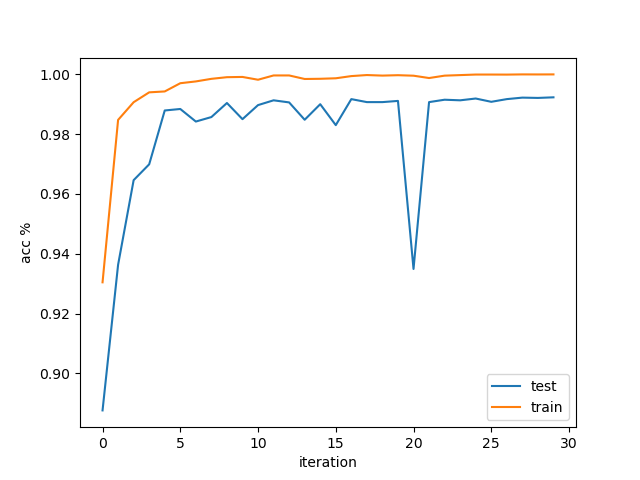
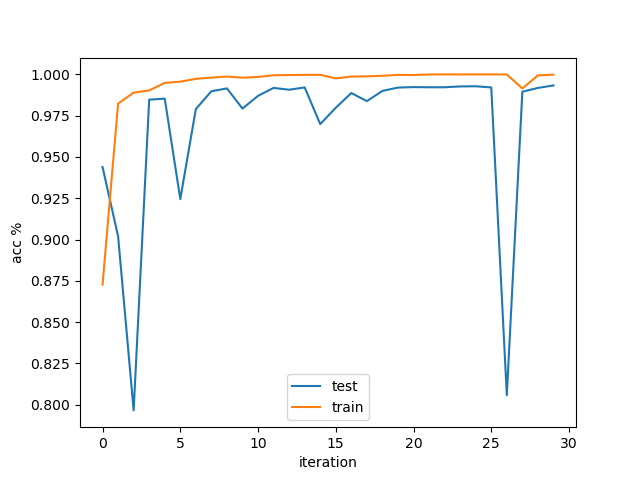
'resnet34'

diff --git a/netTrain.py b/netTrain.py
@@ -20,8 +20,9 @@ EPOCH = 30  # 总共训练轮数
 learning_rate = 0.05  # 学习率
 
 """采用的网络框架"""
-from resNetModel import ResNet18
-testFramwork = ResNet18
+from resNetModel import ResNet18,ResNet34
+# testFramwork = ResNet18
+testFramwork = ResNet34
 # from MLPModel import MLP
 # testFramwork = MLP
 
